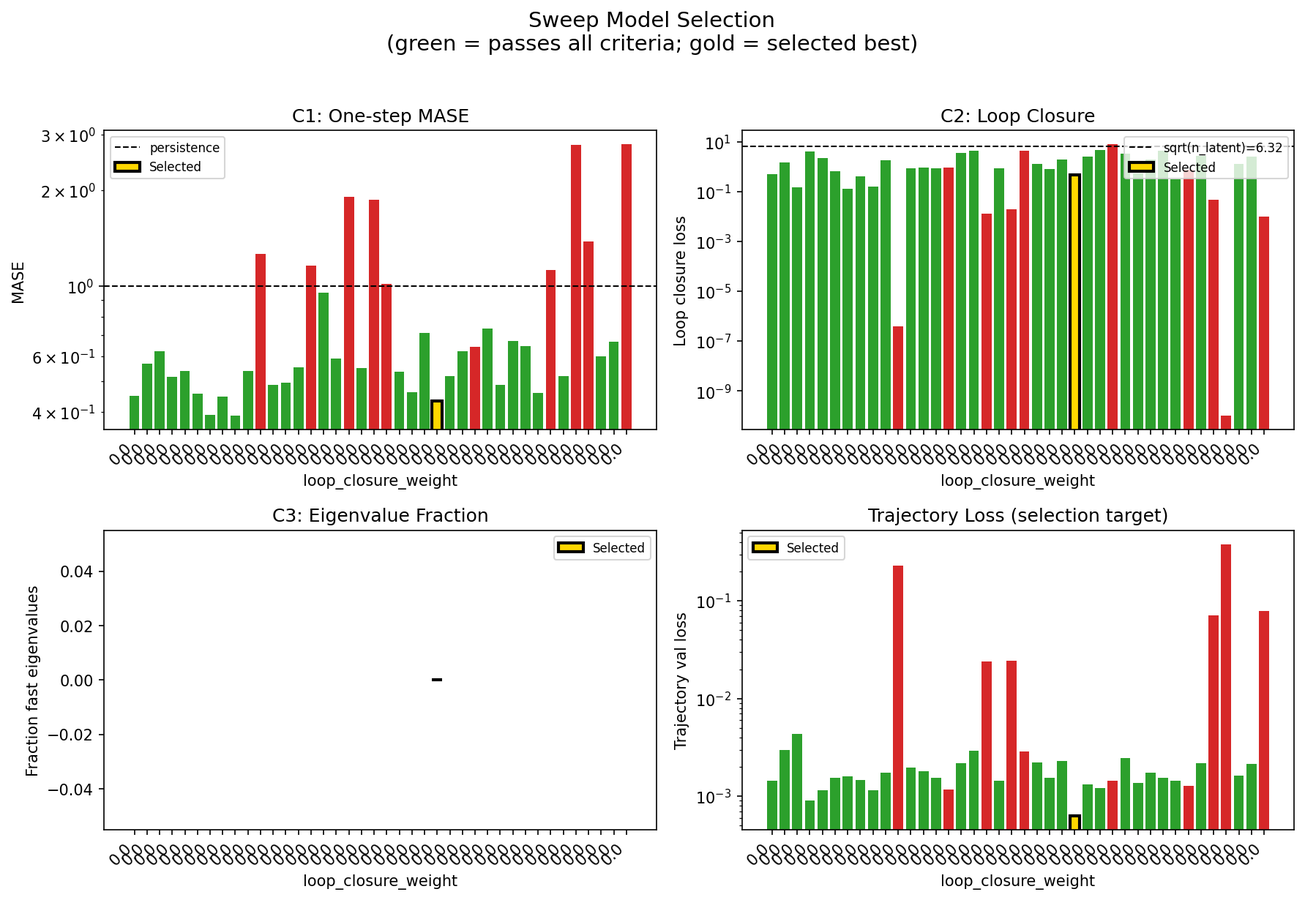
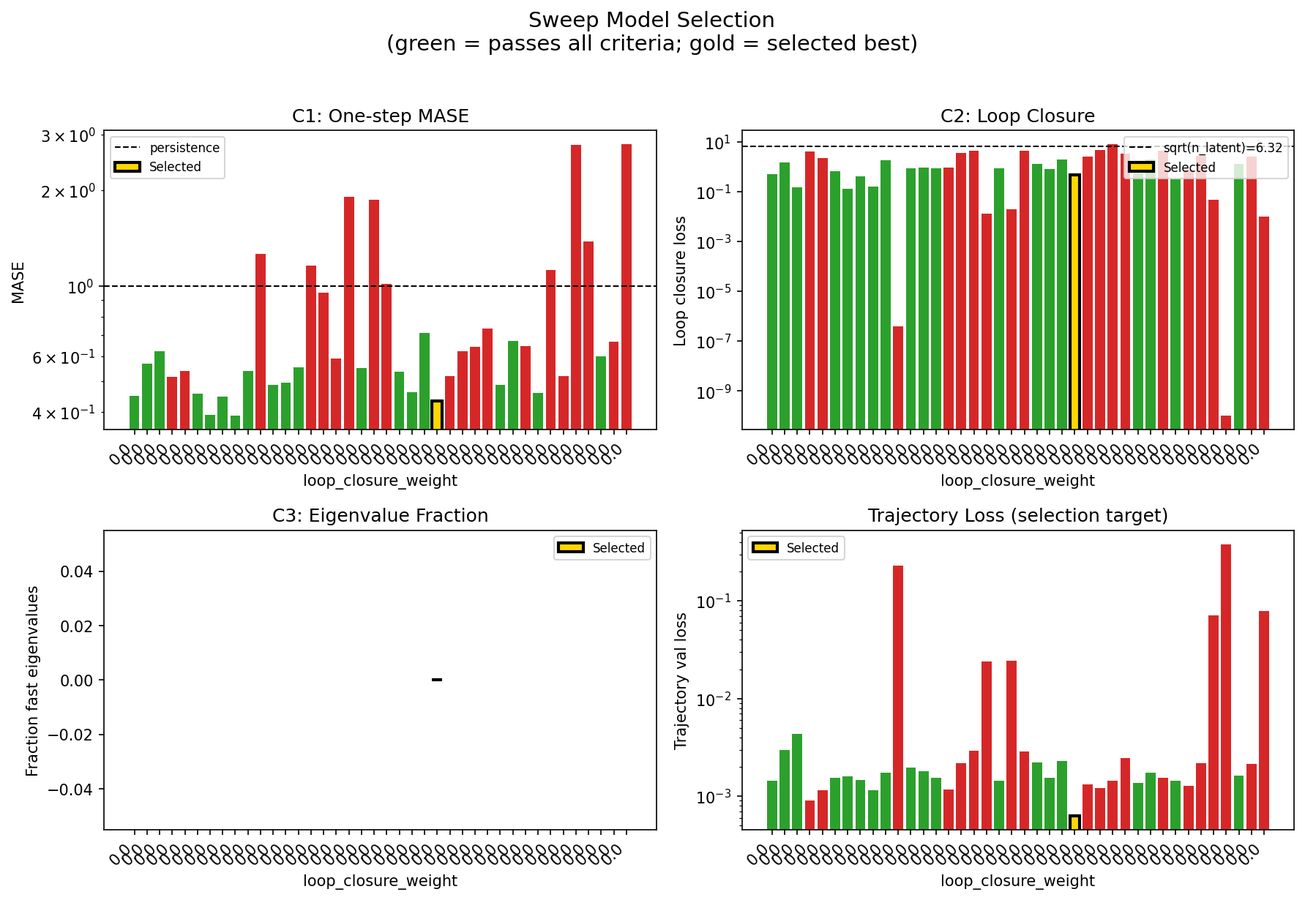
controller cycle 2026-04-22T05:20:58Z

diff --git a/Lorenz_INDpartial_NDInitSweep_autodim_D1_NormTrue__JacobianODE/lorenz_partial_additive_mse_uniform_p30_obsnoise001__ndelays_initsteps_autodim/report.html b/Lorenz_INDpartial_NDInitSweep_autodim_D1_NormTrue__JacobianODE/lorenz_partial_additive_mse_uniform_p30_obsnoise001__ndelays_initsteps_autodim/report.html
@@ -1023,45 +1023,45 @@ Found 42 effectively-done sweep runs:
   loop_closure_weight=0.0, tangent_entropy_weight=0.0, kl_dyn_weight=0.0 -&gt; run_id=xr9flz8e
   Dropping 2 run(s) with no checkpoint dir: ['1kcizs0m', 'db2jesdp']
 n_dims=45, n_latent=45, n_dyn=4, dt=0.0150
-  run=19bk9bgk: DiagnosticMetrics(one_step_mase=0.45049813389778137, loop_closure_loss=0.500860333442688, fast_eigenvalue_fraction=0.0, trajectory_val_loss=0.001443450921215117) (from W&amp;B history)
-  run=1zx69knt: DiagnosticMetrics(one_step_mase=0.5688852667808533, loop_closure_loss=1.428652048110962, fast_eigenvalue_fraction=0.0, trajectory_val_loss=0.0029551475308835506) (from W&amp;B history)
-  run=28anfd5u: DiagnosticMetrics(one_step_mase=0.6225888133049011, loop_closure_loss=0.1501152366399765, fast_eigenvalue_fraction=0.0, trajectory_val_loss=0.004348913673311472) (from W&amp;B history)
-  run=2mukzabp: DiagnosticMetrics(one_step_mase=0.5155223608016968, loop_closure_loss=3.9342236518859863, fast_eigenvalue_fraction=0.0, trajectory_val_loss=0.0008993926458060741) (from W&amp;B history)
-  run=2wrj3chp: DiagnosticMetrics(one_step_mase=0.5398163795471191, loop_closure_loss=2.158484697341919, fast_eigenvalue_fraction=0.0, trajectory_val_loss=0.0011577341938391328) (from W&amp;B history)
-  run=3bhm9cwb: DiagnosticMetrics(one_step_mase=0.4573795795440674, loop_closure_loss=0.6444074511528015, fast_eigenvalue_fraction=0.0, trajectory_val_loss=0.0015387774910777807) (from W&amp;B history)
-  run=7yi2s4lj: DiagnosticMetrics(one_step_mase=0.39183130860328674, loop_closure_loss=0.13248783349990845, fast_eigenvalue_fraction=0.0, trajectory_val_loss=0.001612941618077457) (from W&amp;B history)
-  run=8hntsv8t: DiagnosticMetrics(one_step_mase=0.44732266664505005, loop_closure_loss=0.4154837131500244, fast_eigenvalue_fraction=0.0, trajectory_val_loss=0.0014671949902549386) (from W&amp;B history)
-  run=9ku1zcbn: DiagnosticMetrics(one_step_mase=0.38968488574028015, loop_closure_loss=0.15855036675930023, fast_eigenvalue_fraction=0.0, trajectory_val_loss=0.001148528652265668) (from W&amp;B history)
-  run=9s2b04k4: DiagnosticMetrics(one_step_mase=0.5400614738464355, loop_closure_loss=1.8215380907058716, fast_eigenvalue_fraction=0.0, trajectory_val_loss=0.0017378047341480851) (from W&amp;B history)
+  run=19bk9bgk: DiagnosticMetrics(one_step_mase=0.45049813389778137, loop_closure_loss=0.500860333442688, fast_eigenvalue_fraction=0.0, trajectory_val_loss=0.001443450921215117) (from cache, n_batches=100)
+  run=1zx69knt: DiagnosticMetrics(one_step_mase=0.5688852667808533, loop_closure_loss=1.428652048110962, fast_eigenvalue_fraction=0.0, trajectory_val_loss=0.0029551475308835506) (from cache, n_batches=100)
+  run=28anfd5u: DiagnosticMetrics(one_step_mase=0.6225888133049011, loop_closure_loss=0.1501152366399765, fast_eigenvalue_fraction=0.0, trajectory_val_loss=0.004348913673311472) (from cache, n_batches=100)
+  run=2mukzabp: DiagnosticMetrics(one_step_mase=0.5155223608016968, loop_closure_loss=3.9342236518859863, fast_eigenvalue_fraction=0.0, trajectory_val_loss=0.0008993926458060741) (from cache, n_batches=100)
+  run=2wrj3chp: DiagnosticMetrics(one_step_mase=0.5398163795471191, loop_closure_loss=2.158484697341919, fast_eigenvalue_fraction=0.0, trajectory_val_loss=0.0011577341938391328) (from cache, n_batches=100)
+  run=3bhm9cwb: DiagnosticMetrics(one_step_mase=0.4573795795440674, loop_closure_loss=0.6444074511528015, fast_eigenvalue_fraction=0.0, trajectory_val_loss=0.0015387774910777807) (from cache, n_batches=100)
+  run=7yi2s4lj: DiagnosticMetrics(one_step_mase=0.39183130860328674, loop_closure_loss=0.13248783349990845, fast_eigenvalue_fraction=0.0, trajectory_val_loss=0.001612941618077457) (from cache, n_batches=100)
+  run=8hntsv8t: DiagnosticMetrics(one_step_mase=0.44732266664505005, loop_closure_loss=0.4154837131500244, fast_eigenvalue_fraction=0.0, trajectory_val_loss=0.0014671949902549386) (from cache, n_batches=100)
+  run=9ku1zcbn: DiagnosticMetrics(one_step_mase=0.38968488574028015, loop_closure_loss=0.15855036675930023, fast_eigenvalue_fraction=0.0, trajectory_val_loss=0.001148528652265668) (from cache, n_batches=100)
+  run=9s2b04k4: DiagnosticMetrics(one_step_mase=0.5400614738464355, loop_closure_loss=1.8215380907058716, fast_eigenvalue_fraction=0.0, trajectory_val_loss=0.0017378047341480851) (from cache, n_batches=100)
   run=9u7h6zjy: DiagnosticMetrics(one_step_mase=1.2581123113632202, loop_closure_loss=3.9132567053457024e-07, fast_eigenvalue_fraction=0.0, trajectory_val_loss=0.22783158719539642) (from cache, n_batches=100)
-  run=bcmi4sfg: DiagnosticMetrics(one_step_mase=0.48876404762268066, loop_closure_loss=0.8471764326095581, fast_eigenvalue_fraction=0.0, trajectory_val_loss=0.001959516666829586) (from W&amp;B history)
-  run=cteqr957: DiagnosticMetrics(one_step_mase=0.4954272508621216, loop_closure_loss=0.9030600786209106, fast_eigenvalue_fraction=0.0, trajectory_val_loss=0.001819030032493174) (from W&amp;B history)
-  run=ctm835as: DiagnosticMetrics(one_step_mase=0.5541290044784546, loop_closure_loss=0.8512558937072754, fast_eigenvalue_fraction=0.0, trajectory_val_loss=0.0015556997386738658) (from W&amp;B history)
-  run=d0dd2rwn: DiagnosticMetrics(one_step_mase=1.157900333404541, loop_closure_loss=0.9055870175361633, fast_eigenvalue_fraction=0.0, trajectory_val_loss=0.001165163703262806) (from W&amp;B history)
-  run=da4mcx9g: DiagnosticMetrics(one_step_mase=0.9530088305473328, loop_closure_loss=3.584273099899292, fast_eigenvalue_fraction=0.0, trajectory_val_loss=0.0021893219090998173) (from W&amp;B history)
-  run=f7mxpwk4: DiagnosticMetrics(one_step_mase=0.5914601683616638, loop_closure_loss=4.230276584625244, fast_eigenvalue_fraction=0.0, trajectory_val_loss=0.002912758616730571) (from W&amp;B history)
+  run=bcmi4sfg: DiagnosticMetrics(one_step_mase=0.48876404762268066, loop_closure_loss=0.8471764326095581, fast_eigenvalue_fraction=0.0, trajectory_val_loss=0.001959516666829586) (from cache, n_batches=100)
+  run=cteqr957: DiagnosticMetrics(one_step_mase=0.4954272508621216, loop_closure_loss=0.9030600786209106, fast_eigenvalue_fraction=0.0, trajectory_val_loss=0.001819030032493174) (from cache, n_batches=100)
+  run=ctm835as: DiagnosticMetrics(one_step_mase=0.5541290044784546, loop_closure_loss=0.8512558937072754, fast_eigenvalue_fraction=0.0, trajectory_val_loss=0.0015556997386738658) (from cache, n_batches=100)
+  run=d0dd2rwn: DiagnosticMetrics(one_step_mase=1.157900333404541, loop_closure_loss=0.9055870175361633, fast_eigenvalue_fraction=0.0, trajectory_val_loss=0.001165163703262806) (from cache, n_batches=100)
+  run=da4mcx9g: DiagnosticMetrics(one_step_mase=0.9530088305473328, loop_closure_loss=3.584273099899292, fast_eigenvalue_fraction=0.0, trajectory_val_loss=0.0021893219090998173) (from cache, n_batches=100)
+  run=f7mxpwk4: DiagnosticMetrics(one_step_mase=0.5914601683616638, loop_closure_loss=4.230276584625244, fast_eigenvalue_fraction=0.0, trajectory_val_loss=0.002912758616730571) (from cache, n_batches=100)
   run=f93huri8: DiagnosticMetrics(one_step_mase=1.9041943550109863, loop_closure_loss=0.012637934647500515, fast_eigenvalue_fraction=0.0, trajectory_val_loss=0.02388305589556694) (from cache, n_batches=100)
-  run=fesvj9gx: DiagnosticMetrics(one_step_mase=0.5516402125358582, loop_closure_loss=0.8331121206283569, fast_eigenvalue_fraction=0.0, trajectory_val_loss=0.0014535405207425356) (from W&amp;B history)
+  run=fesvj9gx: DiagnosticMetrics(one_step_mase=0.5516402125358582, loop_closure_loss=0.8331121206283569, fast_eigenvalue_fraction=0.0, trajectory_val_loss=0.0014535405207425356) (from cache, n_batches=100)
   run=fhrst1rb: DiagnosticMetrics(one_step_mase=1.8668575286865234, loop_closure_loss=0.019352059811353683, fast_eigenvalue_fraction=0.0, trajectory_val_loss=0.024262426421046257) (from cache, n_batches=100)
-  run=gu634bsb: DiagnosticMetrics(one_step_mase=1.016064167022705, loop_closure_loss=4.210305690765381, fast_eigenvalue_fraction=0.0, trajectory_val_loss=0.0028843434993177652) (from W&amp;B history)
-  run=ifm65vdy: DiagnosticMetrics(one_step_mase=0.5349423885345459, loop_closure_loss=1.2933228015899658, fast_eigenvalue_fraction=0.0, trajectory_val_loss=0.0022114207968115807) (from W&amp;B history)
-  run=lmfnwfju: DiagnosticMetrics(one_step_mase=0.46289074420928955, loop_closure_loss=0.7771902680397034, fast_eigenvalue_fraction=0.0, trajectory_val_loss=0.001549824490211904) (from W&amp;B history)
-  run=ls3lu1o8: DiagnosticMetrics(one_step_mase=0.7110051512718201, loop_closure_loss=1.9073632955551147, fast_eigenvalue_fraction=0.0, trajectory_val_loss=0.002314868615940213) (from W&amp;B history)
-  run=mwd5kgho: DiagnosticMetrics(one_step_mase=0.43435487151145935, loop_closure_loss=0.47887882590293884, fast_eigenvalue_fraction=0.0, trajectory_val_loss=0.0006314231432043016) (from W&amp;B history)
-  run=naxyvm25: DiagnosticMetrics(one_step_mase=0.5187263488769531, loop_closure_loss=2.6093761920928955, fast_eigenvalue_fraction=0.0, trajectory_val_loss=0.0013251893687993288) (from W&amp;B history)
-  run=qanhc2n6: DiagnosticMetrics(one_step_mase=0.6229138970375061, loop_closure_loss=4.508563041687012, fast_eigenvalue_fraction=0.0, trajectory_val_loss=0.0012236930197104812) (from W&amp;B history)
-  run=s6py0jgm: DiagnosticMetrics(one_step_mase=0.64365553855896, loop_closure_loss=8.123761177062988, fast_eigenvalue_fraction=0.0, trajectory_val_loss=0.0014419842045754194) (from W&amp;B history)
-  run=t61g53wz: DiagnosticMetrics(one_step_mase=0.7339745759963989, loop_closure_loss=3.259683847427368, fast_eigenvalue_fraction=0.0, trajectory_val_loss=0.002445017220452428) (from W&amp;B history)
-  run=tbc0sn6k: DiagnosticMetrics(one_step_mase=0.4870520830154419, loop_closure_loss=0.5453914403915405, fast_eigenvalue_fraction=0.0, trajectory_val_loss=0.001365299103781581) (from W&amp;B history)
-  run=u7z0l6t9: DiagnosticMetrics(one_step_mase=0.6686484813690186, loop_closure_loss=1.9942762851715088, fast_eigenvalue_fraction=0.0, trajectory_val_loss=0.0017507827142253518) (from W&amp;B history)
-  run=ub83b692: DiagnosticMetrics(one_step_mase=0.6460710763931274, loop_closure_loss=4.313647270202637, fast_eigenvalue_fraction=0.0, trajectory_val_loss=0.0015551038086414337) (from W&amp;B history)
-  run=uh2gim40: DiagnosticMetrics(one_step_mase=0.46096792817115784, loop_closure_loss=0.30656537413597107, fast_eigenvalue_fraction=0.0, trajectory_val_loss=0.0014330625999718904) (from W&amp;B history)
-  run=ujup82ac: DiagnosticMetrics(one_step_mase=1.1193588972091675, loop_closure_loss=0.7681381702423096, fast_eigenvalue_fraction=0.0, trajectory_val_loss=0.001275933813303709) (from W&amp;B history)
-  run=unoug06z: DiagnosticMetrics(one_step_mase=0.5201263427734375, loop_closure_loss=2.7462873458862305, fast_eigenvalue_fraction=0.0, trajectory_val_loss=0.0021947945933789015) (from W&amp;B history)
+  run=gu634bsb: DiagnosticMetrics(one_step_mase=1.016064167022705, loop_closure_loss=4.210305690765381, fast_eigenvalue_fraction=0.0, trajectory_val_loss=0.0028843434993177652) (from cache, n_batches=100)
+  run=ifm65vdy: DiagnosticMetrics(one_step_mase=0.5349423885345459, loop_closure_loss=1.2933228015899658, fast_eigenvalue_fraction=0.0, trajectory_val_loss=0.0022114207968115807) (from cache, n_batches=100)
+  run=lmfnwfju: DiagnosticMetrics(one_step_mase=0.46289074420928955, loop_closure_loss=0.7771902680397034, fast_eigenvalue_fraction=0.0, trajectory_val_loss=0.001549824490211904) (from cache, n_batches=100)
+  run=ls3lu1o8: DiagnosticMetrics(one_step_mase=0.7110051512718201, loop_closure_loss=1.9073632955551147, fast_eigenvalue_fraction=0.0, trajectory_val_loss=0.002314868615940213) (from cache, n_batches=100)
+  run=mwd5kgho: DiagnosticMetrics(one_step_mase=0.43435487151145935, loop_closure_loss=0.47887882590293884, fast_eigenvalue_fraction=0.0, trajectory_val_loss=0.0006314231432043016) (from cache, n_batches=100)
+  run=naxyvm25: DiagnosticMetrics(one_step_mase=0.5187263488769531, loop_closure_loss=2.6093761920928955, fast_eigenvalue_fraction=0.0, trajectory_val_loss=0.0013251893687993288) (from cache, n_batches=100)
+  run=qanhc2n6: DiagnosticMetrics(one_step_mase=0.6229138970375061, loop_closure_loss=4.508563041687012, fast_eigenvalue_fraction=0.0, trajectory_val_loss=0.0012236930197104812) (from cache, n_batches=100)
+  run=s6py0jgm: DiagnosticMetrics(one_step_mase=0.64365553855896, loop_closure_loss=8.123761177062988, fast_eigenvalue_fraction=0.0, trajectory_val_loss=0.0014419842045754194) (from cache, n_batches=100)
+  run=t61g53wz: DiagnosticMetrics(one_step_mase=0.7339745759963989, loop_closure_loss=3.259683847427368, fast_eigenvalue_fraction=0.0, trajectory_val_loss=0.002445017220452428) (from cache, n_batches=100)
+  run=tbc0sn6k: DiagnosticMetrics(one_step_mase=0.4870520830154419, loop_closure_loss=0.5453914403915405, fast_eigenvalue_fraction=0.0, trajectory_val_loss=0.001365299103781581) (from cache, n_batches=100)
+  run=u7z0l6t9: DiagnosticMetrics(one_step_mase=0.6686484813690186, loop_closure_loss=1.9942762851715088, fast_eigenvalue_fraction=0.0, trajectory_val_loss=0.0017507827142253518) (from cache, n_batches=100)
+  run=ub83b692: DiagnosticMetrics(one_step_mase=0.6460710763931274, loop_closure_loss=4.313647270202637, fast_eigenvalue_fraction=0.0, trajectory_val_loss=0.0015551038086414337) (from cache, n_batches=100)
+  run=uh2gim40: DiagnosticMetrics(one_step_mase=0.46096792817115784, loop_closure_loss=0.30656537413597107, fast_eigenvalue_fraction=0.0, trajectory_val_loss=0.0014330625999718904) (from cache, n_batches=100)
+  run=ujup82ac: DiagnosticMetrics(one_step_mase=1.1193588972091675, loop_closure_loss=0.7681381702423096, fast_eigenvalue_fraction=0.0, trajectory_val_loss=0.001275933813303709) (from cache, n_batches=100)
+  run=unoug06z: DiagnosticMetrics(one_step_mase=0.5201263427734375, loop_closure_loss=2.7462873458862305, fast_eigenvalue_fraction=0.0, trajectory_val_loss=0.0021947945933789015) (from cache, n_batches=100)
   run=vblk9kz9: DiagnosticMetrics(one_step_mase=2.775660514831543, loop_closure_loss=0.047992728650569916, fast_eigenvalue_fraction=0.0, trajectory_val_loss=0.07126376032829285) (from cache, n_batches=100)
   run=vum47n54: DiagnosticMetrics(one_step_mase=1.3777366876602173, loop_closure_loss=1.0135444566961027e-10, fast_eigenvalue_fraction=0.0, trajectory_val_loss=0.38192814588546753) (from cache, n_batches=100)
-  run=ww7xn01z: DiagnosticMetrics(one_step_mase=0.5987681150436401, loop_closure_loss=1.2793498039245605, fast_eigenvalue_fraction=0.0, trajectory_val_loss=0.0016272536013275385) (from W&amp;B history)
-  run=xfx1bpzk: DiagnosticMetrics(one_step_mase=0.6671359539031982, loop_closure_loss=2.5201685428619385, fast_eigenvalue_fraction=0.0, trajectory_val_loss=0.0021609135437756777) (from W&amp;B history)
+  run=ww7xn01z: DiagnosticMetrics(one_step_mase=0.5987681150436401, loop_closure_loss=1.2793498039245605, fast_eigenvalue_fraction=0.0, trajectory_val_loss=0.0016272536013275385) (from cache, n_batches=100)
+  run=xfx1bpzk: DiagnosticMetrics(one_step_mase=0.6671359539031982, loop_closure_loss=2.5201685428619385, fast_eigenvalue_fraction=0.0, trajectory_val_loss=0.0021609135437756777) (from cache, n_batches=100)
   run=xr9flz8e: DiagnosticMetrics(one_step_mase=2.7965402603149414, loop_closure_loss=0.009711168706417084, fast_eigenvalue_fraction=0.0, trajectory_val_loss=0.07851911336183548) (from cache, n_batches=100)
 
 Ranking method:           best_traj_loss
@@ -1071,7 +1071,7 @@ Best tangent_entropy_weight: 0.0
 Best kl_dyn_weight:       0.0
 Best traj loss:           0.000631
 Criteria applied: ['C1', 'C2', 'C3']
-Surviving: 30 / 40
+Surviving: 20 / 40
 Auto-selected run_id: mwd5kgho
 
 ======================================================================
@@ -1088,13 +1088,13 @@ PARETO FRONTIER RUNS (7 runs)
   mwd5kgho            0.478879        0.000631 &lt;-- selected
 
 ======================================================================
-RANKING METHOD COMPARISON (over 30 survivors)
+RANKING METHOD COMPARISON (over 20 survivors)
 ======================================================================
   Method                  Run ID               LC Loss   Traj Val Loss
   ----------------------  ------------  --------------  --------------
   best_traj_loss          mwd5kgho            0.478879        0.000631 &lt;-- active
   pareto_knee             9ku1zcbn            0.158550        0.001149
-  geo_rank                mwd5kgho            0.478879        0.000631
+  geo_rank                9ku1zcbn            0.158550        0.001149
   minimax_rank            9ku1zcbn            0.158550        0.001149
   geo_log_score           7yi2s4lj            0.132488        0.001613
   minimax_log_score       9ku1zcbn            0.158550        0.001149

diff --git a/Lorenz_INDpartial_NDInitSweep_autodim_D1_NormTrue__JacobianODE/lorenz_partial_additive_mse_uniform_p30_obsnoise001__ndelays_initsteps_autodim/report.md b/Lorenz_INDpartial_NDInitSweep_autodim_D1_NormTrue__JacobianODE/lorenz_partial_additive_mse_uniform_p30_obsnoise001__ndelays_initsteps_autodim/report.md
@@ -336,45 +336,45 @@ Found 42 effectively-done sweep runs:
   loop_closure_weight=0.0, tangent_entropy_weight=0.0, kl_dyn_weight=0.0 -> run_id=xr9flz8e
   Dropping 2 run(s) with no checkpoint dir: ['1kcizs0m', 'db2jesdp']
 n_dims=45, n_latent=45, n_dyn=4, dt=0.0150
-  run=19bk9bgk: DiagnosticMetrics(one_step_mase=0.45049813389778137, loop_closure_loss=0.500860333442688, fast_eigenvalue_fraction=0.0, trajectory_val_loss=0.001443450921215117) (from W&B history)
-  run=1zx69knt: DiagnosticMetrics(one_step_mase=0.5688852667808533, loop_closure_loss=1.428652048110962, fast_eigenvalue_fraction=0.0, trajectory_val_loss=0.0029551475308835506) (from W&B history)
-  run=28anfd5u: DiagnosticMetrics(one_step_mase=0.6225888133049011, loop_closure_loss=0.1501152366399765, fast_eigenvalue_fraction=0.0, trajectory_val_loss=0.004348913673311472) (from W&B history)
-  run=2mukzabp: DiagnosticMetrics(one_step_mase=0.5155223608016968, loop_closure_loss=3.9342236518859863, fast_eigenvalue_fraction=0.0, trajectory_val_loss=0.0008993926458060741) (from W&B history)
-  run=2wrj3chp: DiagnosticMetrics(one_step_mase=0.5398163795471191, loop_closure_loss=2.158484697341919, fast_eigenvalue_fraction=0.0, trajectory_val_loss=0.0011577341938391328) (from W&B history)
-  run=3bhm9cwb: DiagnosticMetrics(one_step_mase=0.4573795795440674, loop_closure_loss=0.6444074511528015, fast_eigenvalue_fraction=0.0, trajectory_val_loss=0.0015387774910777807) (from W&B history)
-  run=7yi2s4lj: DiagnosticMetrics(one_step_mase=0.39183130860328674, loop_closure_loss=0.13248783349990845, fast_eigenvalue_fraction=0.0, trajectory_val_loss=0.001612941618077457) (from W&B history)
-  run=8hntsv8t: DiagnosticMetrics(one_step_mase=0.44732266664505005, loop_closure_loss=0.4154837131500244, fast_eigenvalue_fraction=0.0, trajectory_val_loss=0.0014671949902549386) (from W&B history)
-  run=9ku1zcbn: DiagnosticMetrics(one_step_mase=0.38968488574028015, loop_closure_loss=0.15855036675930023, fast_eigenvalue_fraction=0.0, trajectory_val_loss=0.001148528652265668) (from W&B history)
-  run=9s2b04k4: DiagnosticMetrics(one_step_mase=0.5400614738464355, loop_closure_loss=1.8215380907058716, fast_eigenvalue_fraction=0.0, trajectory_val_loss=0.0017378047341480851) (from W&B history)
+  run=19bk9bgk: DiagnosticMetrics(one_step_mase=0.45049813389778137, loop_closure_loss=0.500860333442688, fast_eigenvalue_fraction=0.0, trajectory_val_loss=0.001443450921215117) (from cache, n_batches=100)
+  run=1zx69knt: DiagnosticMetrics(one_step_mase=0.5688852667808533, loop_closure_loss=1.428652048110962, fast_eigenvalue_fraction=0.0, trajectory_val_loss=0.0029551475308835506) (from cache, n_batches=100)
+  run=28anfd5u: DiagnosticMetrics(one_step_mase=0.6225888133049011, loop_closure_loss=0.1501152366399765, fast_eigenvalue_fraction=0.0, trajectory_val_loss=0.004348913673311472) (from cache, n_batches=100)
+  run=2mukzabp: DiagnosticMetrics(one_step_mase=0.5155223608016968, loop_closure_loss=3.9342236518859863, fast_eigenvalue_fraction=0.0, trajectory_val_loss=0.0008993926458060741) (from cache, n_batches=100)
+  run=2wrj3chp: DiagnosticMetrics(one_step_mase=0.5398163795471191, loop_closure_loss=2.158484697341919, fast_eigenvalue_fraction=0.0, trajectory_val_loss=0.0011577341938391328) (from cache, n_batches=100)
+  run=3bhm9cwb: DiagnosticMetrics(one_step_mase=0.4573795795440674, loop_closure_loss=0.6444074511528015, fast_eigenvalue_fraction=0.0, trajectory_val_loss=0.0015387774910777807) (from cache, n_batches=100)
+  run=7yi2s4lj: DiagnosticMetrics(one_step_mase=0.39183130860328674, loop_closure_loss=0.13248783349990845, fast_eigenvalue_fraction=0.0, trajectory_val_loss=0.001612941618077457) (from cache, n_batches=100)
+  run=8hntsv8t: DiagnosticMetrics(one_step_mase=0.44732266664505005, loop_closure_loss=0.4154837131500244, fast_eigenvalue_fraction=0.0, trajectory_val_loss=0.0014671949902549386) (from cache, n_batches=100)
+  run=9ku1zcbn: DiagnosticMetrics(one_step_mase=0.38968488574028015, loop_closure_loss=0.15855036675930023, fast_eigenvalue_fraction=0.0, trajectory_val_loss=0.001148528652265668) (from cache, n_batches=100)
+  run=9s2b04k4: DiagnosticMetrics(one_step_mase=0.5400614738464355, loop_closure_loss=1.8215380907058716, fast_eigenvalue_fraction=0.0, trajectory_val_loss=0.0017378047341480851) (from cache, n_batches=100)
   run=9u7h6zjy: DiagnosticMetrics(one_step_mase=1.2581123113632202, loop_closure_loss=3.9132567053457024e-07, fast_eigenvalue_fraction=0.0, trajectory_val_loss=0.22783158719539642) (from cache, n_batches=100)
-  run=bcmi4sfg: DiagnosticMetrics(one_step_mase=0.48876404762268066, loop_closure_loss=0.8471764326095581, fast_eigenvalue_fraction=0.0, trajectory_val_loss=0.001959516666829586) (from W&B history)
-  run=cteqr957: DiagnosticMetrics(one_step_mase=0.4954272508621216, loop_closure_loss=0.9030600786209106, fast_eigenvalue_fraction=0.0, trajectory_val_loss=0.001819030032493174) (from W&B history)
-  run=ctm835as: DiagnosticMetrics(one_step_mase=0.5541290044784546, loop_closure_loss=0.8512558937072754, fast_eigenvalue_fraction=0.0, trajectory_val_loss=0.0015556997386738658) (from W&B history)
-  run=d0dd2rwn: DiagnosticMetrics(one_step_mase=1.157900333404541, loop_closure_loss=0.9055870175361633, fast_eigenvalue_fraction=0.0, trajectory_val_loss=0.001165163703262806) (from W&B history)
-  run=da4mcx9g: DiagnosticMetrics(one_step_mase=0.9530088305473328, loop_closure_loss=3.584273099899292, fast_eigenvalue_fraction=0.0, trajectory_val_loss=0.0021893219090998173) (from W&B history)
-  run=f7mxpwk4: DiagnosticMetrics(one_step_mase=0.5914601683616638, loop_closure_loss=4.230276584625244, fast_eigenvalue_fraction=0.0, trajectory_val_loss=0.002912758616730571) (from W&B history)
+  run=bcmi4sfg: DiagnosticMetrics(one_step_mase=0.48876404762268066, loop_closure_loss=0.8471764326095581, fast_eigenvalue_fraction=0.0, trajectory_val_loss=0.001959516666829586) (from cache, n_batches=100)
+  run=cteqr957: DiagnosticMetrics(one_step_mase=0.4954272508621216, loop_closure_loss=0.9030600786209106, fast_eigenvalue_fraction=0.0, trajectory_val_loss=0.001819030032493174) (from cache, n_batches=100)
+  run=ctm835as: DiagnosticMetrics(one_step_mase=0.5541290044784546, loop_closure_loss=0.8512558937072754, fast_eigenvalue_fraction=0.0, trajectory_val_loss=0.0015556997386738658) (from cache, n_batches=100)
+  run=d0dd2rwn: DiagnosticMetrics(one_step_mase=1.157900333404541, loop_closure_loss=0.9055870175361633, fast_eigenvalue_fraction=0.0, trajectory_val_loss=0.001165163703262806) (from cache, n_batches=100)
+  run=da4mcx9g: DiagnosticMetrics(one_step_mase=0.9530088305473328, loop_closure_loss=3.584273099899292, fast_eigenvalue_fraction=0.0, trajectory_val_loss=0.0021893219090998173) (from cache, n_batches=100)
+  run=f7mxpwk4: DiagnosticMetrics(one_step_mase=0.5914601683616638, loop_closure_loss=4.230276584625244, fast_eigenvalue_fraction=0.0, trajectory_val_loss=0.002912758616730571) (from cache, n_batches=100)
   run=f93huri8: DiagnosticMetrics(one_step_mase=1.9041943550109863, loop_closure_loss=0.012637934647500515, fast_eigenvalue_fraction=0.0, trajectory_val_loss=0.02388305589556694) (from cache, n_batches=100)
-  run=fesvj9gx: DiagnosticMetrics(one_step_mase=0.5516402125358582, loop_closure_loss=0.8331121206283569, fast_eigenvalue_fraction=0.0, trajectory_val_loss=0.0014535405207425356) (from W&B history)
+  run=fesvj9gx: DiagnosticMetrics(one_step_mase=0.5516402125358582, loop_closure_loss=0.8331121206283569, fast_eigenvalue_fraction=0.0, trajectory_val_loss=0.0014535405207425356) (from cache, n_batches=100)
   run=fhrst1rb: DiagnosticMetrics(one_step_mase=1.8668575286865234, loop_closure_loss=0.019352059811353683, fast_eigenvalue_fraction=0.0, trajectory_val_loss=0.024262426421046257) (from cache, n_batches=100)
-  run=gu634bsb: DiagnosticMetrics(one_step_mase=1.016064167022705, loop_closure_loss=4.210305690765381, fast_eigenvalue_fraction=0.0, trajectory_val_loss=0.0028843434993177652) (from W&B history)
-  run=ifm65vdy: DiagnosticMetrics(one_step_mase=0.5349423885345459, loop_closure_loss=1.2933228015899658, fast_eigenvalue_fraction=0.0, trajectory_val_loss=0.0022114207968115807) (from W&B history)
-  run=lmfnwfju: DiagnosticMetrics(one_step_mase=0.46289074420928955, loop_closure_loss=0.7771902680397034, fast_eigenvalue_fraction=0.0, trajectory_val_loss=0.001549824490211904) (from W&B history)
-  run=ls3lu1o8: DiagnosticMetrics(one_step_mase=0.7110051512718201, loop_closure_loss=1.9073632955551147, fast_eigenvalue_fraction=0.0, trajectory_val_loss=0.002314868615940213) (from W&B history)
-  run=mwd5kgho: DiagnosticMetrics(one_step_mase=0.43435487151145935, loop_closure_loss=0.47887882590293884, fast_eigenvalue_fraction=0.0, trajectory_val_loss=0.0006314231432043016) (from W&B history)
-  run=naxyvm25: DiagnosticMetrics(one_step_mase=0.5187263488769531, loop_closure_loss=2.6093761920928955, fast_eigenvalue_fraction=0.0, trajectory_val_loss=0.0013251893687993288) (from W&B history)
-  run=qanhc2n6: DiagnosticMetrics(one_step_mase=0.6229138970375061, loop_closure_loss=4.508563041687012, fast_eigenvalue_fraction=0.0, trajectory_val_loss=0.0012236930197104812) (from W&B history)
-  run=s6py0jgm: DiagnosticMetrics(one_step_mase=0.64365553855896, loop_closure_loss=8.123761177062988, fast_eigenvalue_fraction=0.0, trajectory_val_loss=0.0014419842045754194) (from W&B history)
-  run=t61g53wz: DiagnosticMetrics(one_step_mase=0.7339745759963989, loop_closure_loss=3.259683847427368, fast_eigenvalue_fraction=0.0, trajectory_val_loss=0.002445017220452428) (from W&B history)
-  run=tbc0sn6k: DiagnosticMetrics(one_step_mase=0.4870520830154419, loop_closure_loss=0.5453914403915405, fast_eigenvalue_fraction=0.0, trajectory_val_loss=0.001365299103781581) (from W&B history)
-  run=u7z0l6t9: DiagnosticMetrics(one_step_mase=0.6686484813690186, loop_closure_loss=1.9942762851715088, fast_eigenvalue_fraction=0.0, trajectory_val_loss=0.0017507827142253518) (from W&B history)
-  run=ub83b692: DiagnosticMetrics(one_step_mase=0.6460710763931274, loop_closure_loss=4.313647270202637, fast_eigenvalue_fraction=0.0, trajectory_val_loss=0.0015551038086414337) (from W&B history)
-  run=uh2gim40: DiagnosticMetrics(one_step_mase=0.46096792817115784, loop_closure_loss=0.30656537413597107, fast_eigenvalue_fraction=0.0, trajectory_val_loss=0.0014330625999718904) (from W&B history)
-  run=ujup82ac: DiagnosticMetrics(one_step_mase=1.1193588972091675, loop_closure_loss=0.7681381702423096, fast_eigenvalue_fraction=0.0, trajectory_val_loss=0.001275933813303709) (from W&B history)
-  run=unoug06z: DiagnosticMetrics(one_step_mase=0.5201263427734375, loop_closure_loss=2.7462873458862305, fast_eigenvalue_fraction=0.0, trajectory_val_loss=0.0021947945933789015) (from W&B history)
+  run=gu634bsb: DiagnosticMetrics(one_step_mase=1.016064167022705, loop_closure_loss=4.210305690765381, fast_eigenvalue_fraction=0.0, trajectory_val_loss=0.0028843434993177652) (from cache, n_batches=100)
+  run=ifm65vdy: DiagnosticMetrics(one_step_mase=0.5349423885345459, loop_closure_loss=1.2933228015899658, fast_eigenvalue_fraction=0.0, trajectory_val_loss=0.0022114207968115807) (from cache, n_batches=100)
+  run=lmfnwfju: DiagnosticMetrics(one_step_mase=0.46289074420928955, loop_closure_loss=0.7771902680397034, fast_eigenvalue_fraction=0.0, trajectory_val_loss=0.001549824490211904) (from cache, n_batches=100)
+  run=ls3lu1o8: DiagnosticMetrics(one_step_mase=0.7110051512718201, loop_closure_loss=1.9073632955551147, fast_eigenvalue_fraction=0.0, trajectory_val_loss=0.002314868615940213) (from cache, n_batches=100)
+  run=mwd5kgho: DiagnosticMetrics(one_step_mase=0.43435487151145935, loop_closure_loss=0.47887882590293884, fast_eigenvalue_fraction=0.0, trajectory_val_loss=0.0006314231432043016) (from cache, n_batches=100)
+  run=naxyvm25: DiagnosticMetrics(one_step_mase=0.5187263488769531, loop_closure_loss=2.6093761920928955, fast_eigenvalue_fraction=0.0, trajectory_val_loss=0.0013251893687993288) (from cache, n_batches=100)
+  run=qanhc2n6: DiagnosticMetrics(one_step_mase=0.6229138970375061, loop_closure_loss=4.508563041687012, fast_eigenvalue_fraction=0.0, trajectory_val_loss=0.0012236930197104812) (from cache, n_batches=100)
+  run=s6py0jgm: DiagnosticMetrics(one_step_mase=0.64365553855896, loop_closure_loss=8.123761177062988, fast_eigenvalue_fraction=0.0, trajectory_val_loss=0.0014419842045754194) (from cache, n_batches=100)
+  run=t61g53wz: DiagnosticMetrics(one_step_mase=0.7339745759963989, loop_closure_loss=3.259683847427368, fast_eigenvalue_fraction=0.0, trajectory_val_loss=0.002445017220452428) (from cache, n_batches=100)
+  run=tbc0sn6k: DiagnosticMetrics(one_step_mase=0.4870520830154419, loop_closure_loss=0.5453914403915405, fast_eigenvalue_fraction=0.0, trajectory_val_loss=0.001365299103781581) (from cache, n_batches=100)
+  run=u7z0l6t9: DiagnosticMetrics(one_step_mase=0.6686484813690186, loop_closure_loss=1.9942762851715088, fast_eigenvalue_fraction=0.0, trajectory_val_loss=0.0017507827142253518) (from cache, n_batches=100)
+  run=ub83b692: DiagnosticMetrics(one_step_mase=0.6460710763931274, loop_closure_loss=4.313647270202637, fast_eigenvalue_fraction=0.0, trajectory_val_loss=0.0015551038086414337) (from cache, n_batches=100)
+  run=uh2gim40: DiagnosticMetrics(one_step_mase=0.46096792817115784, loop_closure_loss=0.30656537413597107, fast_eigenvalue_fraction=0.0, trajectory_val_loss=0.0014330625999718904) (from cache, n_batches=100)
+  run=ujup82ac: DiagnosticMetrics(one_step_mase=1.1193588972091675, loop_closure_loss=0.7681381702423096, fast_eigenvalue_fraction=0.0, trajectory_val_loss=0.001275933813303709) (from cache, n_batches=100)
+  run=unoug06z: DiagnosticMetrics(one_step_mase=0.5201263427734375, loop_closure_loss=2.7462873458862305, fast_eigenvalue_fraction=0.0, trajectory_val_loss=0.0021947945933789015) (from cache, n_batches=100)
   run=vblk9kz9: DiagnosticMetrics(one_step_mase=2.775660514831543, loop_closure_loss=0.047992728650569916, fast_eigenvalue_fraction=0.0, trajectory_val_loss=0.07126376032829285) (from cache, n_batches=100)
   run=vum47n54: DiagnosticMetrics(one_step_mase=1.3777366876602173, loop_closure_loss=1.0135444566961027e-10, fast_eigenvalue_fraction=0.0, trajectory_val_loss=0.38192814588546753) (from cache, n_batches=100)
-  run=ww7xn01z: DiagnosticMetrics(one_step_mase=0.5987681150436401, loop_closure_loss=1.2793498039245605, fast_eigenvalue_fraction=0.0, trajectory_val_loss=0.0016272536013275385) (from W&B history)
-  run=xfx1bpzk: DiagnosticMetrics(one_step_mase=0.6671359539031982, loop_closure_loss=2.5201685428619385, fast_eigenvalue_fraction=0.0, trajectory_val_loss=0.0021609135437756777) (from W&B history)
+  run=ww7xn01z: DiagnosticMetrics(one_step_mase=0.5987681150436401, loop_closure_loss=1.2793498039245605, fast_eigenvalue_fraction=0.0, trajectory_val_loss=0.0016272536013275385) (from cache, n_batches=100)
+  run=xfx1bpzk: DiagnosticMetrics(one_step_mase=0.6671359539031982, loop_closure_loss=2.5201685428619385, fast_eigenvalue_fraction=0.0, trajectory_val_loss=0.0021609135437756777) (from cache, n_batches=100)
   run=xr9flz8e: DiagnosticMetrics(one_step_mase=2.7965402603149414, loop_closure_loss=0.009711168706417084, fast_eigenvalue_fraction=0.0, trajectory_val_loss=0.07851911336183548) (from cache, n_batches=100)
 
 Ranking method:           best_traj_loss
@@ -384,7 +384,7 @@ Best tangent_entropy_weight: 0.0
 Best kl_dyn_weight:       0.0
 Best traj loss:           0.000631
 Criteria applied: ['C1', 'C2', 'C3']
-Surviving: 30 / 40
+Surviving: 20 / 40
 Auto-selected run_id: mwd5kgho
 
 ======================================================================
@@ -401,13 +401,13 @@ PARETO FRONTIER RUNS (7 runs)
   mwd5kgho            0.478879        0.000631 <-- selected
 
 ======================================================================
-RANKING METHOD COMPARISON (over 30 survivors)
+RANKING METHOD COMPARISON (over 20 survivors)
 ======================================================================
   Method                  Run ID               LC Loss   Traj Val Loss
   ----------------------  ------------  --------------  --------------
   best_traj_loss          mwd5kgho            0.478879        0.000631 <-- active
   pareto_knee             9ku1zcbn            0.158550        0.001149
-  geo_rank                mwd5kgho            0.478879        0.000631
+  geo_rank                9ku1zcbn            0.158550        0.001149
   minimax_rank            9ku1zcbn            0.158550        0.001149
   geo_log_score           7yi2s4lj            0.132488        0.001613
   minimax_log_score       9ku1zcbn            0.158550        0.001149
